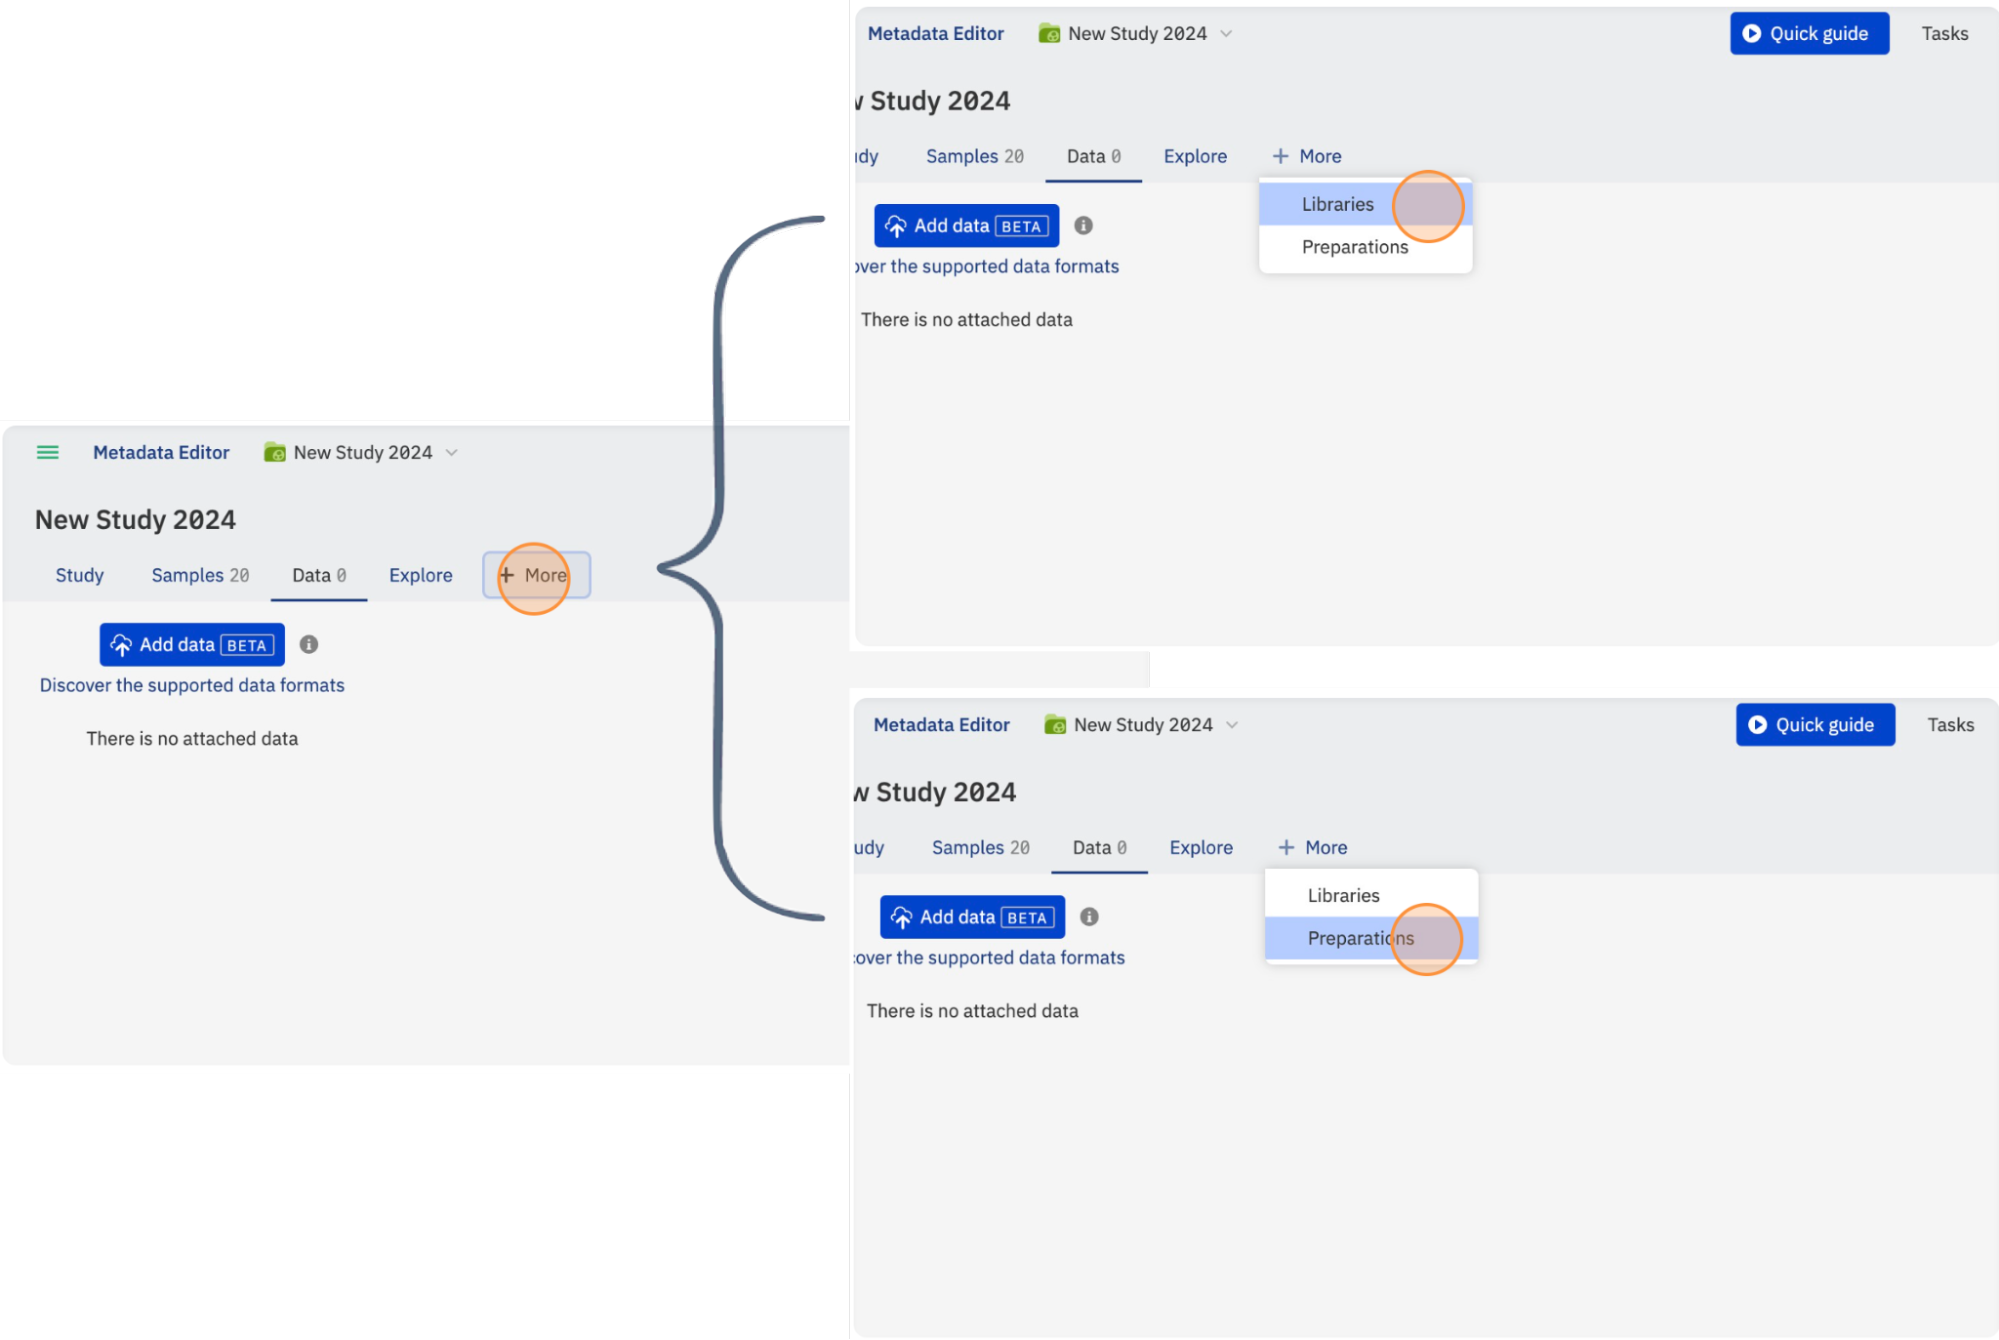
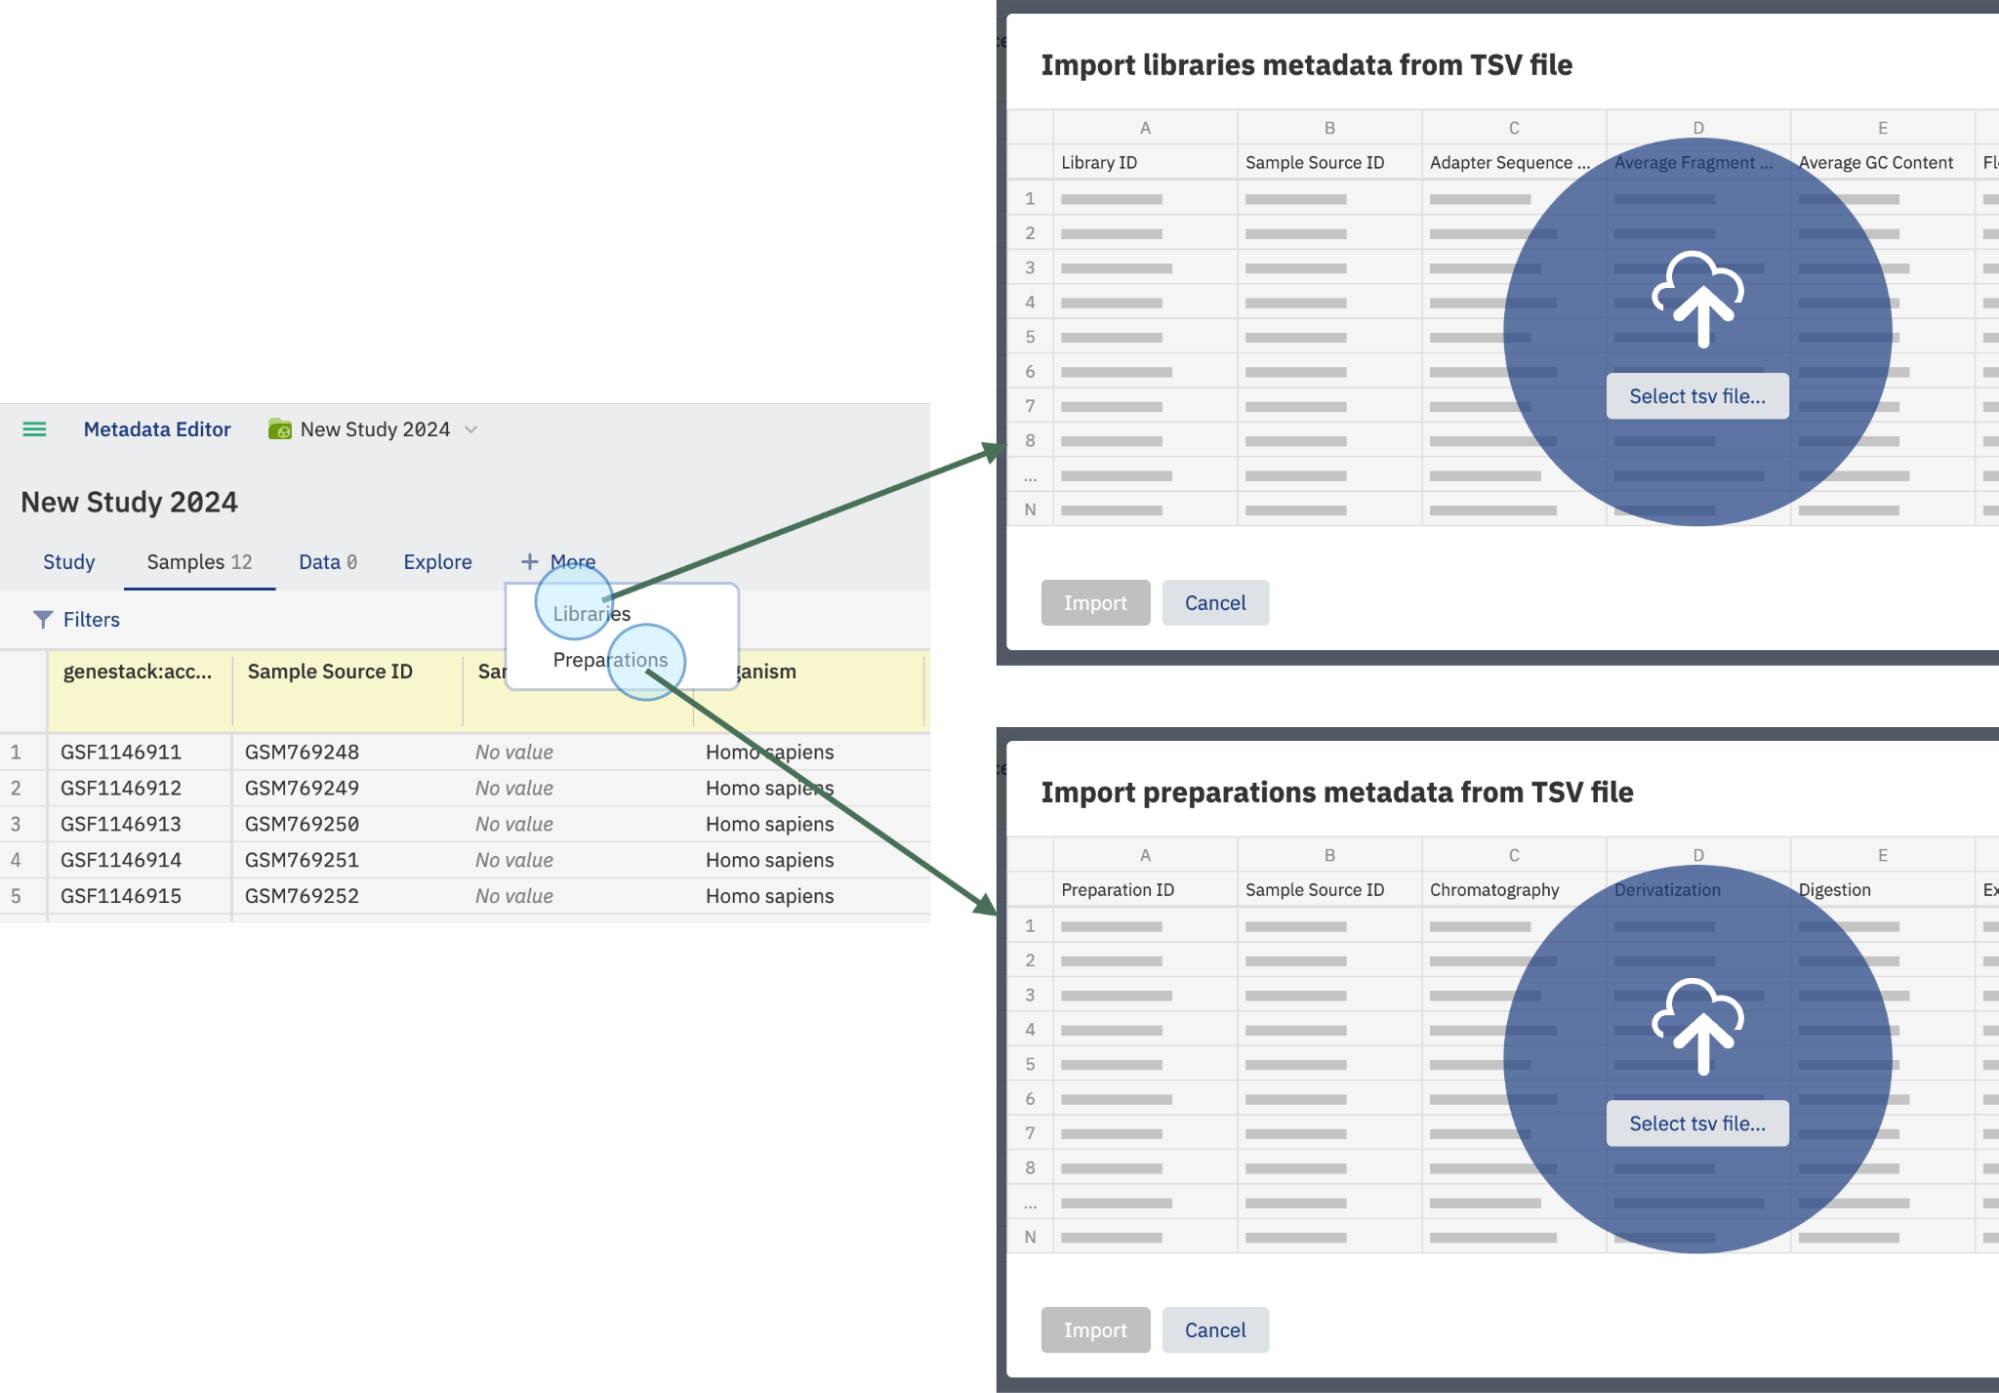
Upload Libraries and Preparations section is updated

diff --git a/docs/user-guide/quick-start/contributor-gui.md b/docs/user-guide/quick-start/contributor-gui.md
@@ -100,11 +100,28 @@ at the bottom of the screen.
 
 ## Upload Libraries and Preparations
 
-* Click on **+ More** button:
-    * To add libraries, click on **Libraries**. 
-    * To add preparations, click on **Preparations**.
+### Add Libraries and Preparations
+In addition to sample metadata, you can also add Libraries and Preparations metadata. 
+To do so, click on the tab **+More** to display both options:
+
+![More](quick-start-images/lib-prep-more.png)
+
+* To add libraries, click on **Libraries** and select the tabular file to import from your local computer. 
+* To add preparations, click on **Preparations** and select the tabular file to import from your local computer.
+  
+Both types of files are linked to the samples metadata file (from the Samples tab) via the **SampleSource ID** column. 
+Ensure this column is included in all files to maintain the link between sample metadata, libraries, and preparations.
 
 ![Create Libraries](quick-start-images/upload-lib-prep.png)
+
+### Link Metadata Files
+* Ensure that the SampleSource ID column is included in all files to maintain the link between samples metadata, 
+libraries, and preparations.
+* Additionally, include the Library ID column for libraries and the Preparation ID column for preparations 
+to ensure proper recognition and linking of the data.
+* Once the data is recognized and linked via these columns, the new metadata tabs will display the recently added data.
+
+![Link Libraries](quick-start-images/lib-prep-linkage.png)
 
 ## Upload Data
 
